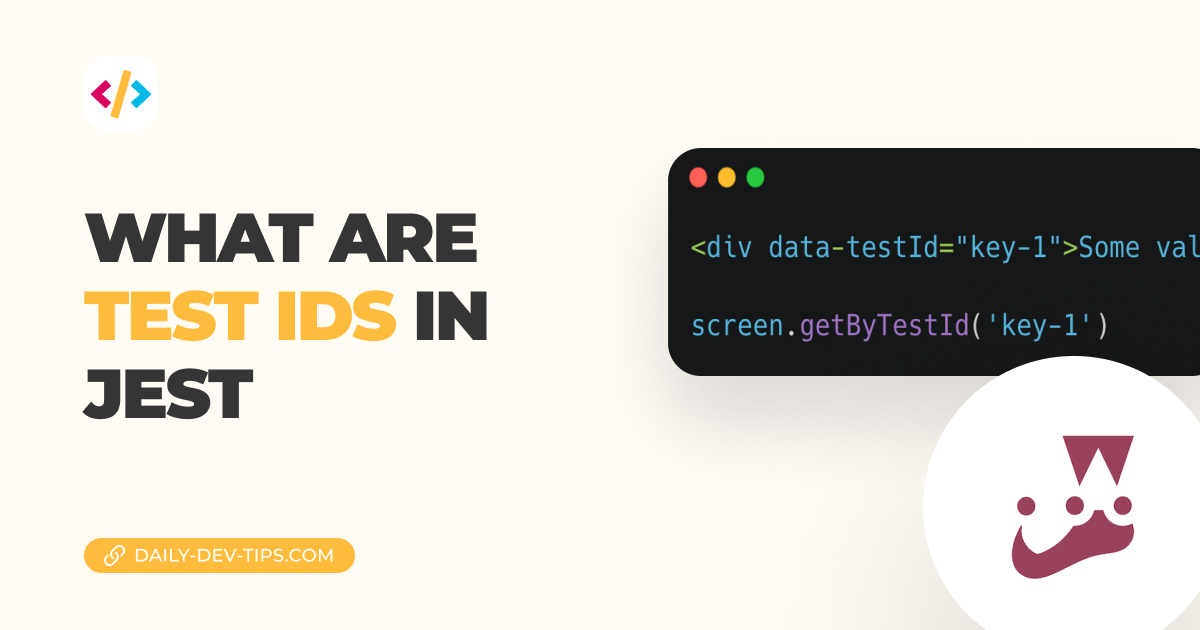
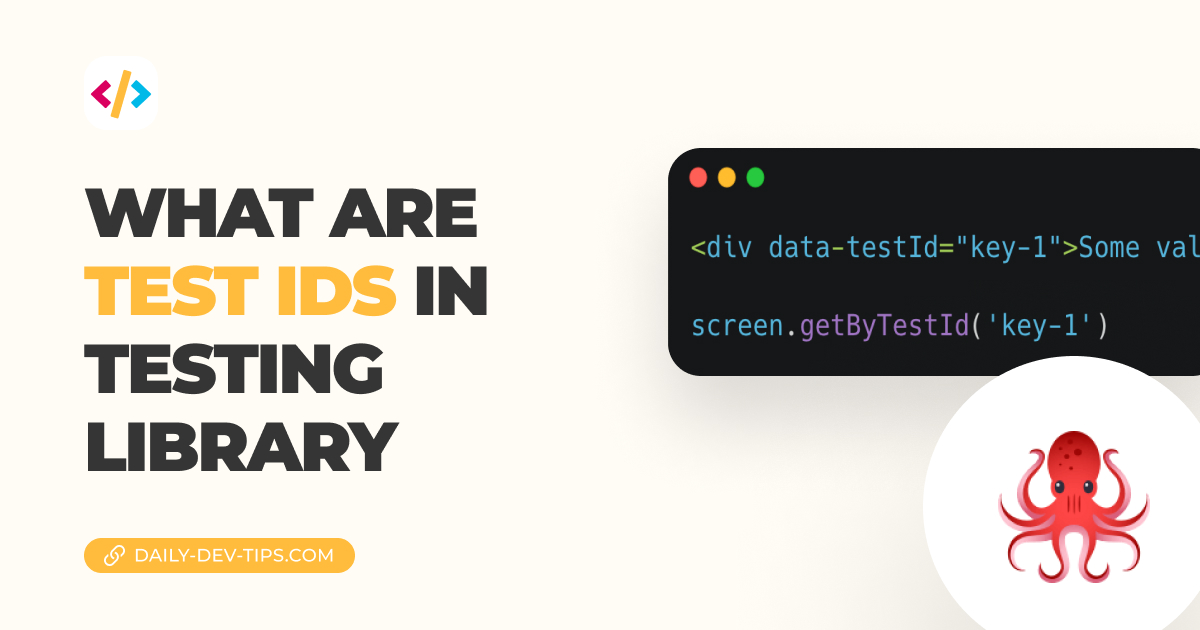
SEO and new article

Changed region(s): [[0.0617, 0.3016, 0.4317, 0.754], [0.8325, 0.6635, 0.9558, 0.9349]]

diff --git a/src/pages/posts/testing-library-query-selectors.md b/src/pages/posts/testing-library-query-selectors.md
@@ -1,0 +1,159 @@
+---
+layout: ../../layouts/Post.astro
+title: 'Testing library query selectors'
+metaTitle: 'Testing library query selectors'
+metaDesc: 'A first look at query selectors in testing library'
+image: /images/12-04-2022.jpg
+date: 2022-04-12T03:00:00.000Z
+tags:
+  - testing
+---
+
+Today we'll look into testing library. This is a set of packages to help you test UI components from a user perspective.
+
+We already have it available in our [React tests](https://daily-dev-tips.com/posts/adding-jest-to-react/). (Follow this article to get started)
+
+We have to keep in mind that this library is mainly a selector library, meaning it can be used to query certain elements.
+It's not bound to a specific framework or testing library.
+
+For instance to query something by text:
+
+```js
+const defaultText = screen.getByText(/The counter is now on/g);
+```
+
+However, we still need Jest to make sure what we retrieved with testing library is true.
+
+```js
+expect(defaultText).toBeInTheDocument();
+```
+
+## Query selectors in testing library
+
+A big part of testing library is its ability to use query selectors. You can even see the one above here in the example.
+
+They are a way to find elements in the DOM quickly, and we can use the following types:
+
+- `get`
+- `find`
+- `query`
+
+The main difference is how they query and whether to throw an error or await for something.
+
+And then, each of these has the option to define whether we want one or multiple elements.
+You can define this by either using `By` or `AllBy` behind your selector.
+
+Let's say we want to use single element selectors:
+
+- `getBy`
+  - Nothing found? It will throw an error
+  - 1 element found, returns the element
+  - More found? Throw an error
+- `findBy`
+  - Nothing found? It will return null
+  - 1 element found, returns the element
+  - More found? Throw an error
+- `queryBy`
+  - Nothing found? It will throw an error
+  - 1 element found, returns the element
+  - More found? Throw an error
+
+So basically, `getBy` and `queryBy` do the same thing. There is just one major difference.
+`queryBy` will return a promise so that we can await this.
+
+For multiple elements, it's the same. However, instead of returning the element, it returns an array of elements.
+
+## Types of queries
+
+Now that we know how to query, we can dive into the types of queries we can use.
+
+**ByRole**
+
+We can use the `ByRole` selector to find elements with a specific role in the DOM, for instance, if we want to query a button.
+
+```js
+const button = screen.getByRole('button');
+```
+
+**ByLabelText**
+
+The `ByLabelText` query can find labels with specific text.
+
+For instance if we have the following HTML setup:
+
+```html
+<label>Name</label>
+```
+
+We can use the following query to select this:
+
+```js
+const label = screen.getByLabelText('Name');
+```
+
+**ByPlaceholderText**
+
+Much like the above, we can use this to query elements with a specific placeholder value:
+
+```js
+const placeholder = screen.getByPlaceholderText('Enter your email');
+```
+
+**ByText**
+
+This is a commonly known text selector we have used in [previous articles](https://daily-dev-tips.com/posts/adding-jest-to-react/).
+It can be used to query for text elements in the dom, and it's super powerful as it can leverage regular expressions.
+
+```js
+const defaultText = screen.getByText(/The counter is now on/g);
+const defaultText = screen.getByText('The counter is now on 0');
+// etc
+```
+
+**ByDisplayValue**
+
+As the name suggests, this one can be used to query elements by their current displayed value.
+
+For instance having the following HTML:
+
+```html
+<input type="text" id="lastName" value="Bongers" />
+```
+
+We can query this element like this:
+
+```js
+const value = screen.getByDisplayValue('Bongers');
+```
+
+**ByAltText**
+
+`ByAltText` is a quick test case for finding elements with specific alt tags.
+
+```js
+const alt = screen.getByAltText('my amazing photo');
+```
+
+**ByTitle**
+
+A not so commonly known selector to target elements with a `title` attribute.
+
+```html
+<i title="Delete"><Icon /></i>
+```
+
+```js
+const title = screen.getByTitle('Delete');
+```
+
+And then there is `ByTestId`, but we'll go into more details on that one in the following article.
+
+## Conclusion
+
+I hope you learned something new about the types of query selectors and how to use each one of them.
+
+Please keep a lookout for the upcoming articles as we dive even more into testing.
+
+### Thank you for reading, and let's connect!
+
+Thank you for reading my blog. Feel free to subscribe to my email newsletter and connect on [Facebook](https://www.facebook.com/DailyDevTipsBlog) or [Twitter](https://twitter.com/DailyDevTips1)

diff --git a/src/pages/posts/python-read-data-from-a-google-sheet.md b/src/pages/posts/python-read-data-from-a-google-sheet.md
@@ -9,7 +9,7 @@ tags:
   - python
 ---
 
-A while ago, we made a node script that could read data from a Google Sheet.
+We made a node script that could read data from a Google Sheet a while ago.
 I thought it would be cool to check how we could achieve the same thing in Python.
 
 So today, you'll be learning how to read data from a Google Sheet in Python.
@@ -20,7 +20,7 @@ The result will be as shown in this GIF.
 
 ## Setup Google credentials
 
-To get started with this project, you need to create a google project and generate credentials for it.
+To get started with this project, you need to create a google project and generate credentials.
 
 To get started, visit the [Google cloud console](https://console.cloud.google.com/apis). If you don't have a project yet, you can create one.
 
@@ -29,7 +29,7 @@ Then click on "Create Credentials."
 
 ![Google new credentials](https://cdn.hashnode.com/res/hashnode/image/upload/v1621922728543/SBbWGgZVz.png)
 
-As the application type, choose "Desktop app" and give it a good name.
+Choose "Desktop app" and give it a good name as the application type.
 
 ![Credentials for Google Sheet](https://cdn.hashnode.com/res/hashnode/image/upload/v1621922780654/bOray41p_.png)
 
@@ -63,7 +63,7 @@ from google.auth.transport.requests import Request
 from google.oauth2.credentials import Credentials
 ```
 
-With that done, we'll make some variables to use in the code.
+We'll make some variables to use in the code with that done.
 
 ```python
 SCOPES = ['https://www.googleapis.com/auth/spreadsheets.readonly']
@@ -71,11 +71,11 @@ SAMPLE_SPREADSHEET_ID = '1BxiMVs0XRA5nFMdKvBdBZjgmUUqptlbs74OgvE2upms'
 SAMPLE_RANGE_NAME = 'Class Data!A2:E'
 ```
 
-The scopes define which API scopes we wish to use. For now, it's readonly. If you do change these, don't forget to remove the token.json file.
+The scopes define which API scopes we wish to use. For now, it's readonly. If you change these, don't forget to remove the token.json file.
 
 Then we define the spreadsheet ID and which range we want to use.
 
-> Note: This is a google provided demo spreadsheet. You don't need to have this in your drive
+> Note: This is a google provided demo spreadsheet. You don't need to have this in your drive.
 
 We will [create a Python function](https://daily-dev-tips.com/posts/writing-functions-in-python/) called `main`, which will hold all our logic.
 
@@ -83,9 +83,9 @@ We will [create a Python function](https://daily-dev-tips.com/posts/writing-func
 def main():
 ```
 
-In there we will make all our needed actions. I'll break these up into sections.
+In there, we will make all our needed actions. I'll break these up into sections.
 
-The first part we need to do is authenticate our application with the API.
+In the first part, we need to authenticate our application with the API.
 We start by creating a `creds` variable. Then we will check if we already have a `token.json` file locally.
 
 If we don't have this file, we will ask the credential flow to run. This will prompt a browser and asks us to authenticate our google account with the application and set the token.json file.
@@ -118,7 +118,7 @@ def main():
     service = build('sheets', 'v4', credentials=creds)
 ```
 
-With this service, we can get the values based on the spreadsheet and the range we defined above.
+We can get the values based on the spreadsheet and the range we defined above with this service.
 
 Then we will loop over the values and print out the results.
 

diff --git a/src/pages/posts/generating-qr-codes-in-google-sheets.md b/src/pages/posts/generating-qr-codes-in-google-sheets.md
@@ -11,23 +11,23 @@ tags:
 
 Being a developer comes down to using the right tool for the right job. And sometimes, it can be a Google sheet or Excel sheet that can automate a simple task for you.
 
-Have you ever needed to generate QR codes from a whole list of URL's for instance?
+Have you ever needed to generate QR codes from a whole list of URLs, for instance?
 
 Well, Google has your back on that.
-Today we'll be using Google Sheets and Google Charts to generate QR Codes!
+Today, we'll use Google Sheets and Google Charts to generate QR Codes!
 
 ![Generating QR Codes in Google Sheets](https://cdn.hashnode.com/res/hashnode/image/upload/v1621491034345/0q398HEE4.gif)
 
 ## Generating a QR code with Google Charts
 
-Google Charts is an amazing tool that can generate several types of charts for us.
+Google Charts is a fantastic tool that can generate several types of charts for us.
 One of the charts we can generate is a QR code.
 
 The benefit of this is that we get a dynamic endpoint where we can change the encoded QR element to be something variable.
 
 [Read more on the Google Chart QR Code](https://developers.google.com/chart/infographics/docs/qr_codes)
 
-If you are following along with my article, this is the end URL we will be using.
+If you follow along with my article, this is the end URL we will be using.
 
 ```text
 https://chart.googleapis.com/chart?chs=200x200&cht=qr&chl=https://daily-dev-tips.com
@@ -36,16 +36,16 @@ https://chart.googleapis.com/chart?chs=200x200&cht=qr&chl=https://daily-dev-tips
 Where the variables we use are:
 
 - `chs`: Chart size, we defined a 200x200 square
-- `cht`: Chart type, in our case QR
+- `cht`: Chart type, in our case, QR
 - `chl`: This is the data we want to encode
 
-If we use that URL as an image, we get the following result.
+Using that URL as an image, we get the following result.
 
 ![Daily dev tips QR code](https://chart.googleapis.com/chart?chs=200x200&cht=qr&chl=https://daily-dev-tips.com)
 
 ## Google Sheets dynamic QR codes
 
-Now that we know about creating QR codes let's put this into action as we generate them dynamically in Google Sheets.
+Now that we know about creating QR codes, let's put this into action as we generate them dynamically in Google Sheets.
 
 Open up a new Google Sheets and fill out column A with random websites.
 
@@ -58,7 +58,7 @@ Then in column B, we will add the following formula.
 Then we can drag this formula down to the other cells!
 
 Make the rows a bit bigger so you can see the image correctly.
-And that's it we now have a dynamic QR generator in Google Sheets.
+And that's it. We now have a dynamic QR generator in Google Sheets.
 
 You can view the [Google QR Sheet here](https://docs.google.com/spreadsheets/d/1qcpM5jyOC2bb8Yg3V3JfvnSefo9yzmb_B1UNUgu3Hyc/edit?usp=sharing).
 

diff --git a/src/pages/posts/what-are-test-ids-in-testing-library.md b/src/pages/posts/what-are-test-ids-in-testing-library.md
@@ -1,15 +1,15 @@
 ---
 layout: ../../layouts/Post.astro
-title: 'What are test ids in Jest'
-metaTitle: 'What are test ids in Jest'
-metaDesc: 'What exactly are test ids in Jest and how can we use them?'
+title: 'What are test ids in testing library'
+metaTitle: 'What are test ids in testing library'
+metaDesc: 'What exactly are test ids in testing library and how can we use them?'
 image: /images/13-04-2022.jpg
 date: 2022-04-13T03:00:00.000Z
 tags:
   - testing
 ---
 
-When working on Jest test cases, you might come across an option when you want to query something that turns out to be super hard to find with normal selectors.
+When working on testing library test cases, you might come across an option when you want to query something that turns out to be super hard to find with normal selectors.
 
 In general, it's best to try and avoid using test-id if you can use any other form of selectors.
 
@@ -57,7 +57,7 @@ screen.getByTestId('path-1');
 screen.getByTestId('path-2');
 ```
 
-A quick reminder, you can replace the `getBy` with all the [regular query selectors](https://daily-dev-tips.com/posts/jest-query-selectors/).
+A quick reminder, you can replace the `getBy` with all the [regular query selectors](https://daily-dev-tips.com/posts/testing-library-query-selectors/).
 
 **A dynamic tag**
 
